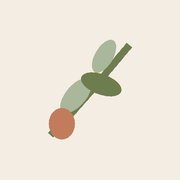
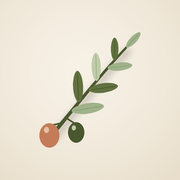
Новая иконка, заставки iPhone, режим приложения: manifest, ярлыки, без зума полей, автообновление

Changed region(s): [[0.1944, 0.1667, 0.7778, 0.8333]]

diff --git a/index.html b/index.html
@@ -2,7 +2,8 @@
 <html lang="ru">
   <head>
     <meta charset="UTF-8" />
-    <meta name="viewport" content="width=device-width, initial-scale=1, viewport-fit=cover" />
+    <meta name="viewport" content="width=device-width, initial-scale=1, viewport-fit=cover, interactive-widget=resizes-content" />
+    <meta name="format-detection" content="telephone=no" />
     <title>Олива</title>
     <meta name="description" content="Меню Low FODMAP на 4 недели, рецепты и список покупок" />
     <meta name="theme-color" content="#f3ede3" media="(prefers-color-scheme: light)" />
@@ -12,7 +13,21 @@
     <meta name="apple-mobile-web-app-status-bar-style" content="default" />
     <meta name="apple-mobile-web-app-title" content="Олива" />
     <link rel="icon" href="./favicon.svg" type="image/svg+xml" />
-    <link rel="apple-touch-icon" href="./icon-180.png" />
+    <link rel="apple-touch-icon" sizes="180x180" href="./icon-180.png" />
+    <link rel="icon" type="image/png" sizes="192x192" href="./icon-192.png" />
+    <!-- заставки запуска для iPhone (scripts/make-icons.py) -->
+    <link rel="apple-touch-startup-image" media="(device-width: 440px) and (device-height: 956px) and (-webkit-device-pixel-ratio: 3) and (orientation: portrait)" href="./splash/1320x2868.png" />
+    <link rel="apple-touch-startup-image" media="(device-width: 402px) and (device-height: 874px) and (-webkit-device-pixel-ratio: 3) and (orientation: portrait)" href="./splash/1206x2622.png" />
+    <link rel="apple-touch-startup-image" media="(device-width: 430px) and (device-height: 932px) and (-webkit-device-pixel-ratio: 3) and (orientation: portrait)" href="./splash/1290x2796.png" />
+    <link rel="apple-touch-startup-image" media="(device-width: 393px) and (device-height: 852px) and (-webkit-device-pixel-ratio: 3) and (orientation: portrait)" href="./splash/1179x2556.png" />
+    <link rel="apple-touch-startup-image" media="(device-width: 428px) and (device-height: 926px) and (-webkit-device-pixel-ratio: 3) and (orientation: portrait)" href="./splash/1284x2778.png" />
+    <link rel="apple-touch-startup-image" media="(device-width: 390px) and (device-height: 844px) and (-webkit-device-pixel-ratio: 3) and (orientation: portrait)" href="./splash/1170x2532.png" />
+    <link rel="apple-touch-startup-image" media="(device-width: 375px) and (device-height: 812px) and (-webkit-device-pixel-ratio: 3) and (orientation: portrait)" href="./splash/1125x2436.png" />
+    <link rel="apple-touch-startup-image" media="(device-width: 414px) and (device-height: 896px) and (-webkit-device-pixel-ratio: 3) and (orientation: portrait)" href="./splash/1242x2688.png" />
+    <link rel="apple-touch-startup-image" media="(device-width: 414px) and (device-height: 896px) and (-webkit-device-pixel-ratio: 2) and (orientation: portrait)" href="./splash/828x1792.png" />
+    <link rel="apple-touch-startup-image" media="(device-width: 360px) and (device-height: 780px) and (-webkit-device-pixel-ratio: 3) and (orientation: portrait)" href="./splash/1080x2340.png" />
+    <link rel="apple-touch-startup-image" media="(device-width: 375px) and (device-height: 667px) and (-webkit-device-pixel-ratio: 2) and (orientation: portrait)" href="./splash/750x1334.png" />
+    <link rel="apple-touch-startup-image" media="(device-width: 414px) and (device-height: 736px) and (-webkit-device-pixel-ratio: 3) and (orientation: portrait)" href="./splash/1242x2208.png" />
     <link rel="manifest" href="./manifest.webmanifest" />
   </head>
   <body>

diff --git a/src/screens/Settings.jsx b/src/screens/Settings.jsx
@@ -28,6 +28,7 @@ function Body({ theme, setTheme }) {
 
   return (
     <div className="stack" style={{ gap: 18 }}>
+      <InstallGroup />
       <PushGroup user={user} st={st} />
 
       <Group title="Напоминания в календаре">
@@ -110,6 +111,32 @@ function Body({ theme, setTheme }) {
       </Group>
       <div className="tiny muted" style={{ textAlign: 'center' }}>Олива · старт {fmtDay(st.startDate)} · версия {__APP_VERSION__}</div>
     </div>
+  )
+}
+
+function InstallGroup() {
+  const [, force] = useState(0)
+  const standalone = window.matchMedia?.('(display-mode: standalone)').matches || navigator.standalone
+  if (standalone) return null
+  const ios = /iPad|iPhone|iPod/.test(navigator.userAgent) || (navigator.platform === 'MacIntel' && navigator.maxTouchPoints > 1)
+  const prompt = window.__installPrompt
+  return (
+    <Group title="Установить на телефон">
+      <div className="row" style={{ gap: 12 }}>
+        <img src="./icon-180.png" alt="" width="52" height="52" style={{ borderRadius: 12, flex: 'none' }} />
+        <div className="small" style={{ color: 'var(--ink2)' }}>
+          {ios
+            ? 'Safari → кнопка «Поделиться» (квадрат со стрелкой) → «На экран Домой» → «Добавить». Олива откроется как приложение — без адресной строки, с иконкой и уведомлениями.'
+            : 'Добавь Оливу на главный экран — откроется как отдельное приложение, без адресной строки.'}
+        </div>
+      </div>
+      {!ios && prompt && (
+        <button className="btn primary block" onClick={async () => { prompt.prompt(); await prompt.userChoice; window.__installPrompt = null; force((x) => x + 1) }}>
+          Установить
+        </button>
+      )}
+      {!ios && !prompt && <div className="tiny muted">Chrome: меню ⋮ → «Добавить на главный экран».</div>}
+    </Group>
   )
 }
 

diff --git a/src/main.jsx b/src/main.jsx
@@ -5,6 +5,11 @@ import App from './App'
 import { initAuth } from './lib/store'
 
 initAuth()
+// Android/Chrome: запоминаем предложение установки, чтобы показать свою кнопку в настройках
+window.addEventListener('beforeinstallprompt', (e) => {
+  e.preventDefault()
+  window.__installPrompt = e
+})
 createRoot(document.getElementById('root')).render(
   <StrictMode>
     <App />
@@ -12,5 +17,14 @@ createRoot(document.getElementById('root')).render(
 )
 
 if ('serviceWorker' in navigator && import.meta.env.PROD) {
+  const hadController = !!navigator.serviceWorker.controller
   navigator.serviceWorker.register('./sw.js').catch(() => {})
+  // вышла новая версия — тихо перезагружаемся, но только если приложение было уже открыто старой версией
+  let reloaded = false
+  navigator.serviceWorker.addEventListener('controllerchange', () => {
+    if (hadController && !reloaded) {
+      reloaded = true
+      location.reload()
+    }
+  })
 }

diff --git a/public/sw.js b/public/sw.js
@@ -1,7 +1,7 @@
 // Офлайн-кэш: сеть в приоритете для страницы, кэш — для статики. Версия меняется при каждой сборке.
 const CACHE = 'oliva-__BUILD__'
 self.addEventListener('install', (e) => {
-  e.waitUntil(caches.open(CACHE).then((c) => c.addAll(['./', './index.html', './manifest.webmanifest', './icon-192.png'])))
+  e.waitUntil(caches.open(CACHE).then((c) => c.addAll(['./', './index.html', './manifest.webmanifest', './icon-180.png', './icon-192.png', './icon-512.png'])))
   self.skipWaiting()
 })
 self.addEventListener('activate', (e) => {

diff --git a/src/index.css b/src/index.css
@@ -79,6 +79,27 @@
   box-sizing: border-box;
   -webkit-tap-highlight-color: transparent;
 }
+html {
+  -webkit-text-size-adjust: 100%;
+  touch-action: manipulation;
+}
+body {
+  -webkit-user-select: none;
+  user-select: none;
+  -webkit-touch-callout: none;
+}
+/* iOS увеличивает страницу при фокусе на поле со шрифтом меньше 16px */
+@media (pointer: coarse) {
+  input,
+  select,
+  textarea {
+    font-size: 16px !important;
+  }
+}
+img,
+svg {
+  -webkit-user-drag: none;
+}
 html,
 body {
   margin: 0;

diff --git a/scripts/make-icons.py b/scripts/make-icons.py
@@ -1,0 +1,181 @@
+"""Иконки и заставки для «Оливы».
+
+Рисует ветку оливы в высоком разрешении (1024 px) и раскладывает:
+  public/icon-180.png  — iPhone «На экран Домой» (без прозрачности, углы скругляет сама iOS)
+  public/icon-192.png, icon-512.png — Android/manifest
+  public/icon-maskable-512.png — Android с запасом под круглую/каплевидную маску
+  public/splash/*.png — заставки запуска для iPhone
+Запуск: python3 scripts/make-icons.py
+"""
+import math
+import os
+from PIL import Image, ImageDraw, ImageFilter, ImageFont
+
+ROOT = os.path.join(os.path.dirname(__file__), '..', 'public')
+BG_IN = (247, 241, 230)
+BG_OUT = (232, 222, 203)
+OLIVE = (98, 113, 64)
+OLIVE_D = (74, 87, 47)
+SAGE = (160, 178, 138)
+SAGE_L = (190, 204, 168)
+TERRA = (196, 124, 88)
+TERRA_L = (222, 160, 124)
+
+
+def bg(size):
+    """Тёплый «овсяный» фон с мягким радиальным светом."""
+    im = Image.new('RGB', (size, size), BG_OUT)
+    px = im.load()
+    c = size / 2
+    for y in range(size):
+        for x in range(size):
+            d = min(1, math.hypot(x - c * 0.9, y - c * 0.8) / (size * 0.78))
+            t = d ** 1.6
+            px[x, y] = tuple(int(BG_IN[i] * (1 - t) + BG_OUT[i] * t) for i in range(3))
+    return im
+
+
+def bezier(p0, p1, p2, p3, n=80):
+    pts = []
+    for i in range(n + 1):
+        t = i / n
+        x = (1 - t) ** 3 * p0[0] + 3 * (1 - t) ** 2 * t * p1[0] + 3 * (1 - t) * t * t * p2[0] + t ** 3 * p3[0]
+        y = (1 - t) ** 3 * p0[1] + 3 * (1 - t) ** 2 * t * p1[1] + 3 * (1 - t) * t * t * p2[1] + t ** 3 * p3[1]
+        pts.append((x, y))
+    return pts
+
+
+def leaf(d, cx, cy, length, width, angle, col, vein):
+    """Лист оливы: заострённый с двух концов, с центральной жилкой."""
+    a = math.radians(angle)
+    ca, sa = math.cos(a), math.sin(a)
+    pts = []
+    for i in range(61):
+        t = i / 60 * math.pi * 2
+        x = length / 2 * math.cos(t)
+        y = width / 2 * math.sin(t) * (abs(math.sin(t)) ** 0.15)
+        y *= 1 - 0.35 * (x / (length / 2)) ** 2 * 0  # форма веретена
+        pts.append((cx + x * ca - y * sa, cy + x * sa + y * ca))
+    d.polygon(pts, fill=col)
+    d.line([(cx - length * 0.42 * ca, cy - length * 0.42 * sa), (cx + length * 0.42 * ca, cy + length * 0.42 * sa)], fill=vein, width=max(2, int(width * 0.08)))
+
+
+def olive(im, cx, cy, rx, ry, col, light):
+    lay = Image.new('RGBA', im.size, (0, 0, 0, 0))
+    d = ImageDraw.Draw(lay)
+    d.ellipse([cx - rx, cy - ry, cx + rx, cy + ry], fill=col)
+    d.ellipse([cx - rx * 0.55, cy - ry * 0.7, cx - rx * 0.05, cy - ry * 0.2], fill=light + (150,))
+    im.alpha_composite(lay)
+
+
+def art(size=1024, scale=1.0):
+    """Ветка на прозрачном слое. scale < 1 — с запасом по краям (для maskable)."""
+    im = Image.new('RGBA', (size, size), (0, 0, 0, 0))
+    S = size / 64 * scale
+    off = size * (1 - scale) / 2
+    P = lambda x, y: (off + x * S, off + y * S)
+
+    # мягкая тень под веткой
+    sh = Image.new('RGBA', im.size, (0, 0, 0, 0))
+    sd = ImageDraw.Draw(sh)
+    sd.line([P(*p) for p in bezier((15, 52), (25, 40), (35, 27), (49, 12))], fill=(60, 50, 30, 55), width=int(3 * S))
+    sh = sh.filter(ImageFilter.GaussianBlur(size / 60))
+    im.alpha_composite(sh, (int(size * 0.008), int(size * 0.02)))
+
+    d = ImageDraw.Draw(im)
+    B = ((15, 52), (25, 40), (35, 27), (49, 12))
+    pts = bezier(*B, n=160)
+    sw = 1.7 * S
+    for i, (x, y) in enumerate(pts):
+        r = sw / 2 * (1 - 0.45 * i / len(pts))  # стебель сужается к верхушке
+        X, Y = P(x, y)
+        d.ellipse([X - r, Y - r, X + r, Y + r], fill=OLIVE_D + (255,))
+
+    def at(t):
+        i = min(len(pts) - 2, int(t * (len(pts) - 1)))
+        (x0, y0), (x1, y1) = pts[i], pts[i + 1]
+        return (x0, y0), math.degrees(math.atan2(y1 - y0, x1 - x0))
+
+    # листья растут из стебля попеременно, к верхушке мельче
+    for t, side, L, W, col in [
+        (0.30, 1, 14.5, 4.6, SAGE), (0.40, -1, 14, 4.4, OLIVE),
+        (0.54, 1, 13, 4.2, OLIVE), (0.64, -1, 12.5, 4.0, SAGE_L),
+        (0.78, 1, 11, 3.6, SAGE), (0.86, -1, 10, 3.3, OLIVE),
+    ]:
+        (x, y), ang = at(t)
+        a = ang + side * 42
+        ra = math.radians(a)
+        cx, cy = x + math.cos(ra) * L * 0.5, y + math.sin(ra) * L * 0.5
+        X, Y = P(cx, cy)
+        vein = tuple(max(0, v - 30) for v in col)
+        leaf(d, X, Y, L * S, W * S, a, col + (255,), vein + (255,))
+    # верхушка
+    (x, y), ang = at(0.995)
+    ra = math.radians(ang)
+    X, Y = P(x + math.cos(ra) * 4, y + math.sin(ra) * 4)
+    leaf(d, X, Y, 9 * S, 3 * S, ang, SAGE + (255,), tuple(v - 30 for v in SAGE) + (255,))
+
+    # две оливки на коротких плодоножках
+    for t, dx, dy, rx, ry, col, light in [(0.16, -5.5, 5.5, 4.4, 5.4, TERRA, TERRA_L), (0.22, 4.5, 6.5, 3.6, 4.5, OLIVE_D, SAGE)]:
+        (x, y), _ = at(t)
+        ox, oy = x + dx, y + dy
+        d.line([P(x, y), P(ox, oy - ry * 0.8)], fill=OLIVE_D + (255,), width=max(1, int(0.8 * S)))
+        X, Y = P(ox, oy)
+        olive(im, X, Y, rx * S, ry * S, col + (255,), light)
+        d = ImageDraw.Draw(im)
+    return im
+
+
+def icon(size, scale=0.8):
+    base = bg(1024).convert('RGBA')
+    lay = art(1024, scale)
+    # центрируем рисунок по его видимым границам
+    x0, y0, x1, y1 = lay.getchannel('A').point(lambda v: 255 if v > 40 else 0).getbbox()
+    dx, dy = int(512 - (x0 + x1) / 2), int(512 - (y0 + y1) / 2)
+    moved = Image.new('RGBA', lay.size, (0, 0, 0, 0))
+    moved.alpha_composite(lay, (max(0, dx), max(0, dy)), (max(0, -dx), max(0, -dy)))
+    base.alpha_composite(moved)
+    return base.convert('RGB').resize((size, size), Image.LANCZOS)
+
+
+def splash(w, h, name):
+    im = Image.new('RGB', (w, h), (243, 237, 227))
+    s = int(min(w, h) * 0.34)
+    ic = icon(1024).resize((s, s), Image.LANCZOS)
+    # скругление как у иконки
+    mask = Image.new('L', (s, s), 0)
+    ImageDraw.Draw(mask).rounded_rectangle([0, 0, s - 1, s - 1], radius=int(s * 0.225), fill=255)
+    x, y = (w - s) // 2, int(h * 0.40 - s / 2)
+    im.paste(ic, (x, y), mask)
+    d = ImageDraw.Draw(im)
+    font = ImageFont.truetype('/System/Library/Fonts/Supplemental/Georgia.ttf', int(s * 0.28))
+    t = 'Олива'
+    tw = d.textlength(t, font=font)
+    d.text(((w - tw) / 2, y + s + s * 0.16), t, font=font, fill=(47, 44, 37))
+    small = ImageFont.truetype('/System/Library/Fonts/Supplemental/Georgia.ttf', int(s * 0.1))
+    t2 = 'меню на месяц'
+    d.text(((w - d.textlength(t2, font=small)) / 2, y + s + s * 0.55), t2, font=small, fill=(143, 135, 120))
+    im.save(os.path.join(ROOT, 'splash', name), optimize=True)
+
+
+# Размеры экранов iPhone (px) и их CSS-размеры для media-запросов
+SPLASH = [
+    (1320, 2868, 440, 956, 3), (1206, 2622, 402, 874, 3), (1290, 2796, 430, 932, 3), (1179, 2556, 393, 852, 3),
+    (1284, 2778, 428, 926, 3), (1170, 2532, 390, 844, 3), (1125, 2436, 375, 812, 3), (1242, 2688, 414, 896, 3),
+    (828, 1792, 414, 896, 2), (1080, 2340, 360, 780, 3), (750, 1334, 375, 667, 2), (1242, 2208, 414, 736, 3),
+]
+
+if __name__ == '__main__':
+    os.makedirs(os.path.join(ROOT, 'splash'), exist_ok=True)
+    big = icon(1024)
+    big.save(os.path.join(ROOT, 'icon-1024.png'))
+    for s in (180, 192, 512):
+        big.resize((s, s), Image.LANCZOS).save(os.path.join(ROOT, f'icon-{s}.png'), optimize=True)
+    icon(512, 0.62).save(os.path.join(ROOT, 'icon-maskable-512.png'), optimize=True)
+    links = []
+    for w, h, cw, ch, r in SPLASH:
+        name = f'{w}x{h}.png'
+        splash(w, h, name)
+        links.append(f'<link rel="apple-touch-startup-image" media="(device-width: {cw}px) and (device-height: {ch}px) and (-webkit-device-pixel-ratio: {r}) and (orientation: portrait)" href="./splash/{name}" />')
+    open(os.path.join(ROOT, 'splash', 'links.html'), 'w').write('\n'.join(links) + '\n')
+    print('ok')
